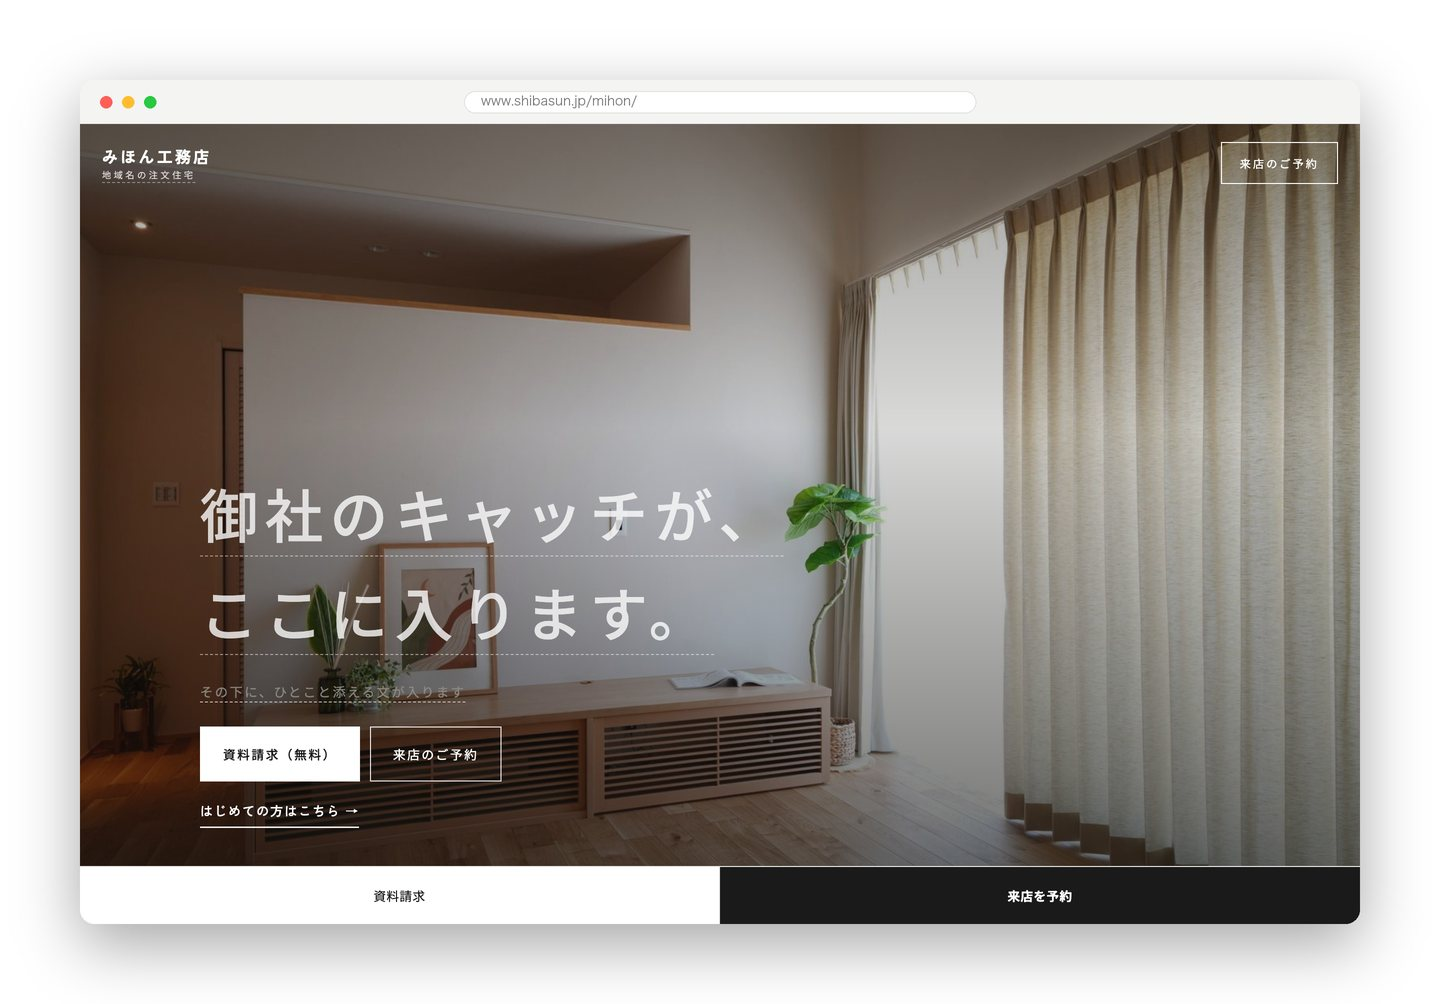
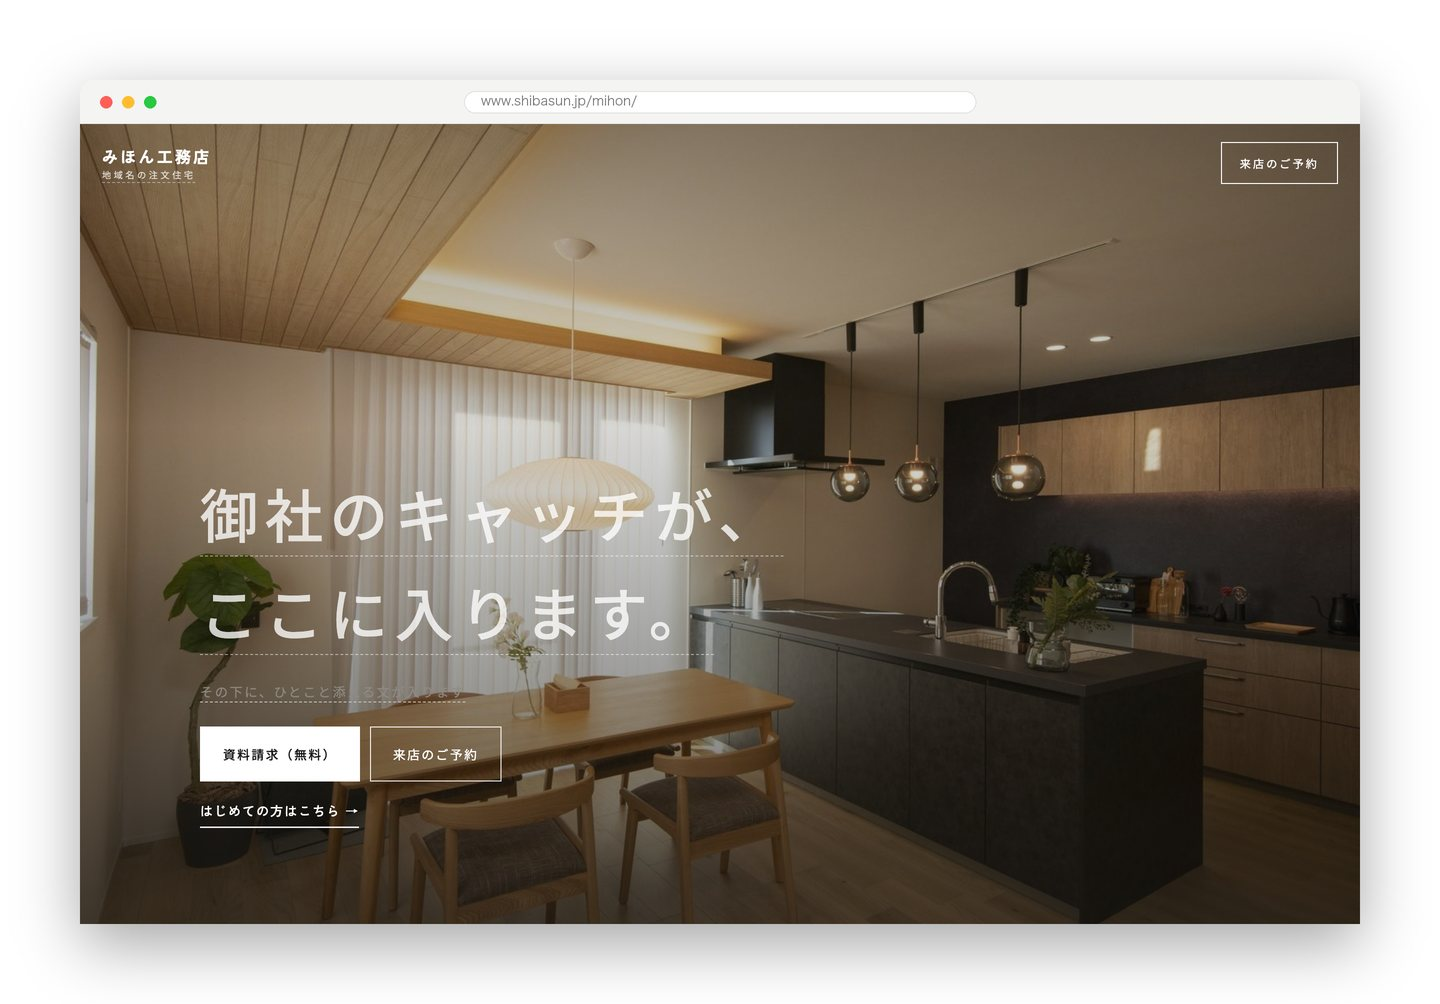
外販ページ試案：モニター募集・ホームページ欄を任意・完成イメージのPC写真を差し替え

diff --git a/hp-reform-shian.html b/hp-reform-shian.html
@@ -441,6 +441,7 @@ section.alt .pieblk,section.alt .y3n div,section.alt .fb{background:#fff}
 
 /* 黒帯がスマホで5pxはみ出していた */
 @media(max-width:420px){.bh{padding:.48em .7em;max-width:100%}}
+.pkt .mon{font-size:var(--f1);color:var(--sub);line-height:1.8;margin-top:10px}
 /* ひと目で分かる1枚 */
 .matome{border:1.5px solid var(--g);background:#fff;margin:30px auto 0;max-width:660px;text-align:left}
 .matome .r{display:grid;grid-template-columns:1fr;border-top:1px solid var(--line)}
@@ -501,7 +502,7 @@ section.alt .pieblk,section.alt .y3n div,section.alt .fb{background:#fff}
     <p class="sub up d2">奈良の工務店が、<span class="nb">自分の会社のホームページを</span><br>作り替えました。<span class="nb">同じ手順を</span>、<br><span class="nb">他府県の工務店さんのホームページで</span>行っています。</p>
 
     <div class="chev up d3">
-      <div class="c1"><span>先着3社様限定で</span><b>制作費50万円</b></div>
+      <div class="c1"><span>モニター募集・先着3社様</span><b>制作費50万円</b></div>
       <div class="c2">相談無料</div>
     </div>
 
@@ -512,7 +513,7 @@ section.alt .pieblk,section.alt .y3n div,section.alt .fb{background:#fff}
     <div class="matome up">
       <div class="r"><span class="k">どなた向け</span><span class="v">注文住宅を建てている、<span class="nb">工務店さん</span></span></div>
       <div class="r"><span class="k">すること</span><span class="v">今のホームページを、お客様が<span class="nb">見つけやすく</span>、<span class="nb">予約しやすい形に</span><span class="nb">作り替えます</span></span></div>
-      <div class="r"><span class="k">費用</span><span class="v"><b>制作費50万円</b>（<span class="nb">税別・先着3社様</span>）<br><span class="nb">公開後の更新をお任せいただく場合は</span>、<span class="nb">月2万円</span></span></div>
+      <div class="r"><span class="k">費用</span><span class="v"><b>制作費50万円</b>（<span class="nb">税別・モニター価格</span>・<span class="nb">先着3社様</span>）<br><span class="nb">公開後の更新をお任せいただく場合は</span>、<span class="nb">月2万円</span></span></div>
       <div class="r"><span class="k">できあがるもの</span><span class="v"><span class="nb">8ページのホームページ</span>・<span class="nb">スマートフォン対応</span>・<span class="nb">その場で日時を選べる予約の仕組み</span></span></div>
     </div>
 
@@ -688,7 +689,8 @@ section.alt .pieblk,section.alt .y3n div,section.alt .fb{background:#fff}
     <div class="pk up">
       <div class="pkt">
         <div class="l1">ホームページ全面リフォーム</div>
-        <div class="l2"><span class="sen"><span class="mk">先着3社様限定</span>で</span><span class="big">50</span><em>万円</em><small>（税別）</small></div>
+        <div class="l2"><span class="sen"><span class="mk">モニター価格・先着3社様</span></span><span class="big">50</span><em>万円</em><small>（税別）</small></div>
+        <div class="mon">モニターの3社様には、<span class="nb">公開後のお問合せの変化を</span>、<span class="nb">私どもの実例として</span><span class="nb">載せさせていただきます</span>。<span class="nb">4社様目からは80万円です</span>。</div>
       </div>
       <div class="pkl">
         <div class="it"><i></i><div><b>標準8ページ</b><span>トップ／会社案内／施工事例／価格／進み方／お客様の声／コラム／お問合せ</span></div></div>
@@ -726,7 +728,7 @@ section.alt .pieblk,section.alt .y3n div,section.alt .fb{background:#fff}
     <h3 class="mid up" style="margin-top:46px">よくあるご質問</h3>
     <div class="qas up">
       <div class="qa">
-        <div class="q"><i>Q</i><span>先着3社以外の金額はいくらですか？</span></div>
+        <div class="q"><i>Q</i><span>モニターの3社様のあとは、<span class="nb">いくらですか？</span></span></div>
         <div class="a"><i>A</i><span>ホームページ全面リフォーム80万円でお作りします。<span class="nb">維持管理費は変わらず月2万円です</span>。</span></div>
       </div>
       <div class="qa">
@@ -854,7 +856,7 @@ section.alt .pieblk,section.alt .y3n div,section.alt .fb{background:#fff}
         '<div class="f"><label>お名前<em>必須</em></label><input name="name" required autocomplete="name" placeholder="例：山田 太郎"></div>'+
         '<div class="f"><label>お電話番号<em>必須</em></label><input name="tel" required type="tel" autocomplete="tel" placeholder="090-0000-0000"></div>'+
         '<div class="f"><label>メールアドレス</label><input name="mail" type="email" autocomplete="email" placeholder="任意"></div>'+
-        '<div class="f"><label>御社のホームページ<em>必須</em></label><input name="hp" required placeholder="www.example.jp"></div>'+
+        '<div class="f"><label>御社のホームページ</label><input name="hp" placeholder="任意（www.example.jp）"></div>'+
         '<div class="f"><label>気になっていること</label><textarea name="note" rows="2" placeholder="例：スマホでの見え方が気になっています"></textarea></div>'+
         '<button class="send" type="submit">この日時で予約する</button></form>';
       rsv.querySelectorAll('.day').forEach(function(b){b.addEventListener('click',function(){pickDate=b.dataset.d;pickSlot=null;render()})});
@@ -878,7 +880,7 @@ section.alt .pieblk,section.alt .y3n div,section.alt .fb{background:#fff}
       e.preventDefault();var f=e.target;
       if(!pickSlot){alert('ご希望の時間をお選びください');return;}
       var b=f.querySelector('.send');b.disabled=true;b.textContent='送信中…';
-      var msg=['【ホームページの無料相談・オンライン30分】','【御社のホームページ】'+f.hp.value.trim(),
+      var msg=['【ホームページの無料相談・オンライン30分】',f.hp.value.trim()?'【御社のホームページ】'+f.hp.value.trim():'',
                f.note.value.trim()?'【気になっていること】'+f.note.value.trim():''].filter(Boolean).join('\n');
       try{
         var r=await fetch(API+'/api/public/reserve',{method:'POST',headers:{'Content-Type':'application/json'},
